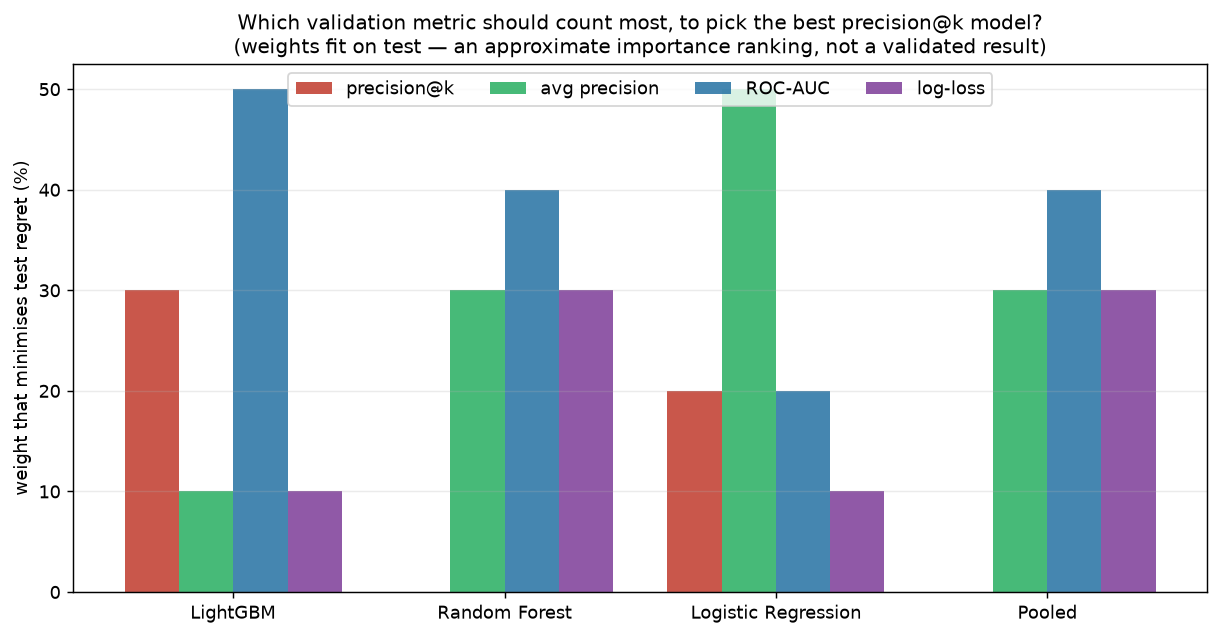
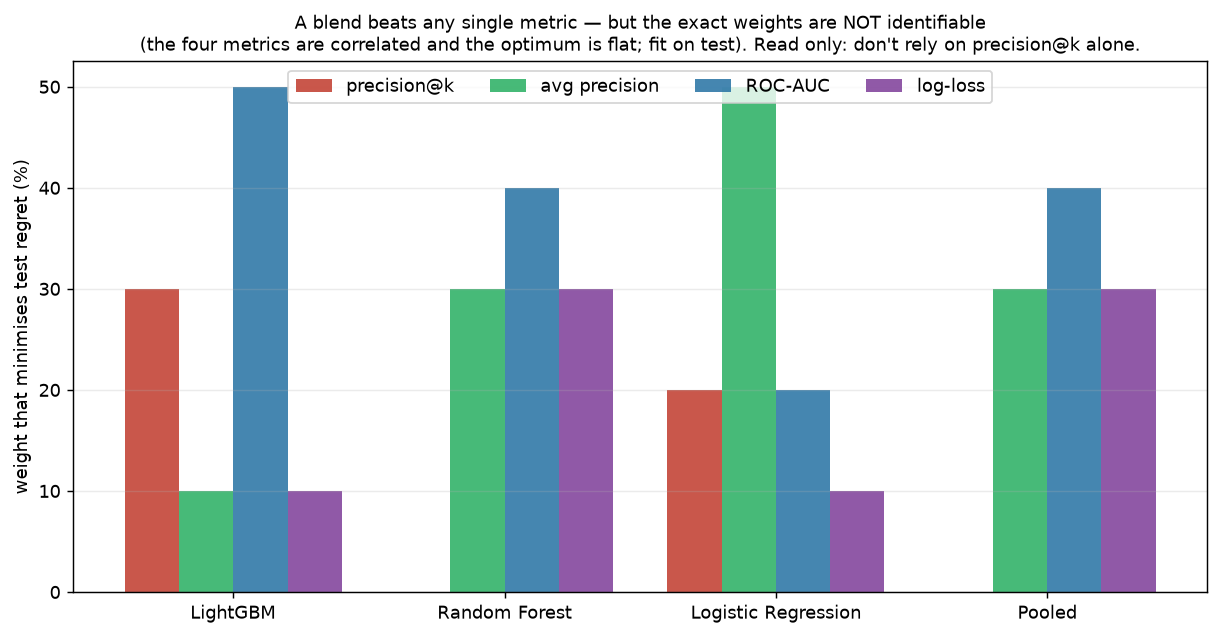
Weighting: state the weights are not identifiable (correlated metrics, flat optimum); lean the capstone on the robust cascade

diff --git a/paper/main.tex b/paper/main.tex
@@ -408,22 +408,26 @@ them as an importance ranking and a qualitative recipe, not as achievable perfor
 \paragraph{How much should each metric count?} We standardise the four validation metrics
 within each case and select the configuration maximising a weighted sum
 $\sum_m w_m z(m)$, then search the weight simplex for the $w$ minimising mean test regret
-(Fig.~\ref{fig:weights}). Two things stand out. First, a \emph{blend} beats every single
-metric in all three families (e.g.\ pooled regret $0.64$ vs.\ $0.66$ for the best solo metric,
-average precision). Second, the blend leans on the stable ranking metrics: pooled, the weights
-are ROC-AUC $0.4$, average precision $0.3$, log-loss $0.3$, and precision@$k$ $0$; and ---
-counter-intuitively --- ROC-AUC earns a large weight in the \emph{combination} despite being
-the worst metric \emph{alone}, contributing signal decorrelated from the others. Precision@$k$
-is never the largest weight in any family (at most $0.3$, in LightGBM). The message is not the
-exact weights (they are test-fit and family-dependent) but the ranking: do not lean on
-precision@$k$; build selection around stable ranking metrics.
+(Fig.~\ref{fig:weights}). One robust fact emerges: a \emph{blend} beats every single metric in
+all three families (e.g.\ pooled regret $0.64$ vs.\ $0.66$ for the best solo metric). \emph{The
+individual weights, however, are not identifiable and should not be read literally.} The four
+metrics are strongly correlated (pairwise Pearson $0.45$--$0.73$ across configurations --- they
+all reward ranking positives high), so they are near-substitutes and the optimal weight can
+shift between them with almost no effect; and the regret surface is nearly flat --- for
+LightGBM, $11$ of $286$ grid weightings lie within $0.01$ of the optimum, ranging from
+AUC-heavy $[0.3,0.1,0.5,0.1]$ to precision@$k$-heavy $[0.8,0,0.1,0.1]$ to log-loss-heavy
+$[0.2,0,0.3,0.5]$. So the per-family split in Fig.~\ref{fig:weights} is largely test-fit noise.
+The one defensible reading is qualitative: do not rely on precision@$k$ alone; a combination of
+stable ranking metrics is marginally better, and (next) a simple cascade captures that
+robustly.
 
 \begin{figure}[h]
 \centering
 \includegraphics[width=0.9\linewidth]{figs/figW_weights.png}
 \caption{Weights on the four validation metrics that minimise test regret, per family (and
-pooled). Fit on test, so optimistic --- an importance ranking, not a validated result.
-Precision@$k$ is never dominant; a blend beats any single metric.}
+pooled). Fit on test and \emph{not identifiable} --- the metrics are correlated and the
+optimum is flat, so the exact split is largely noise (see text). The only robust reading: a
+blend beats any single metric and precision@$k$ is not the answer alone.}
 \label{fig:weights}
 \end{figure}
 

diff --git a/analysis_weights.py b/analysis_weights.py
@@ -80,8 +80,8 @@ for i, m in enumerate(METRICS):
     ax.bar(xb + (i - 1.5) * w, vals, w, color=COL[m], label=NICE[m], alpha=0.85)
 ax.set_xticks(xb); ax.set_xticklabels([LAB.get(f, "Pooled") for f in labels])
 ax.set_ylabel("weight that minimises test regret (%)")
-ax.set_title("Which validation metric should count most, to pick the best precision@k model?\n"
-             "(weights fit on test — an approximate importance ranking, not a validated result)", fontsize=11)
+ax.set_title("A blend beats any single metric — but the exact weights are NOT identifiable\n"
+             "(the four metrics are correlated and the optimum is flat; fit on test). Read only: don't rely on precision@k alone.", fontsize=10)
 ax.grid(alpha=0.25, axis="y"); ax.legend(ncol=4, loc="upper center")
 fig.tight_layout(); fig.savefig(f"{OUT}/figW_weights.png", dpi=130, bbox_inches="tight"); plt.close(fig)
 print("\nsaved figW_weights.png")